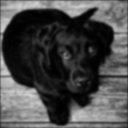
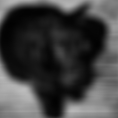
Update arguments and remove unnecessary resources

diff --git a/parallel/src/main.cpp b/parallel/src/main.cpp
@@ -9,11 +9,61 @@
 
 // Got images here: https://fastly.picsum.photos/id/237/128/128.jpg?grayscale&hmac=8Ye1hFnCaU6mahalA5Vz9WKPNGPvYk59irm670tGrzk
 
+void printHelp(const char* programName)
+{
+  std::cout << "Usage: " << programName << " [OPTIONS]\n\n"
+            << "Options:\n"
+            << "  -h, --help                   Show this help message and exit\n"
+            << "  -k, --kernel_size <int>      Set the kernel size (Must be odd!) (default: 3)\n"
+            << "  -s, --sigma <float>          Change the sigma for the Gaussian function (default: 1.0)\n"
+            << "  -i, --image_name <string>    Adjust the image name to run the convolution on a non-default image (default: grayscale_dog_128x128)"
+            << std::endl;
+}
+
 int main(int argc, char* argv[]) {
-  int kernelSize = argc > 1 ? std::stoi(argv[1]) : 5;
-  int sigma = argc > 2 ? std::stof(argv[2]) : 1.0f;
-  const std::string& imageName = argc > 3 ? argv[3] : "grayscale_dog_128x128";
-  const std::string& baseFilePath = argc > 3 ? "../resources/" + imageName + ".jpg" : "../resources/grayscale_dog_128x128.jpg";
+  int kernelSize = 5;
+  float sigma = 1.0f;
+  std::string imageName = "grayscale_dog_128x128";
+
+  for (int i = 1; i < argc; ++i)
+  {
+    std::string arg = argv[i];
+
+    if (arg == "-h" || arg == "--help")
+    {
+      printHelp(argv[0]);
+      return 0;
+    }
+    else if (arg == "-k" || arg == "--kernel_size")
+    {
+      if (i + 1 < argc) {
+        kernelSize = std::stoi(argv[++i]); // Advance i and convert string to int
+      } else {
+          std::cerr << "Error: " << arg << " requires a kernel size.\n";
+          return 1;
+      }
+    }
+    else if (arg == "-s" || arg == "--sigma")
+    {
+      if (i + 1 < argc) {
+        sigma = std::stof(argv[++i]); // Advance i and convert string to float
+      } else {
+          std::cerr << "Error: " << arg << " requires a sigma.\n";
+          return 1;
+      }
+    }
+    else if (arg == "-i" || arg == "--image_name")
+    {
+      if (i + 1 < argc) {
+        imageName = argv[++i]; // Advance i
+      } else {
+          std::cerr << "Error: " << arg << " requires an image name.\n";
+          return 1;
+      }
+    }
+  }
+
+  const std::string& baseFilePath = "./resources/" + imageName + ".jpg";
 
   std::cout << "Using kernel with size: " << kernelSize << " and sigma: " << sigma << std::endl;
 
@@ -30,7 +80,7 @@ int main(int argc, char* argv[]) {
   auto reshaped_image = utilities::reshapeArrayTwoDim(stbi_image, width, height, 1);
 
   Convolution convolution = Convolution(kernelSize);
-  convolution.createVerticalEdgeKernel(kernelSize);
+  convolution.createGaussianKernel(kernelSize, sigma);
 
   int outputWidth = width - kernelSize + 1;
   int outputHeight = height - kernelSize + 1;
@@ -46,7 +96,7 @@ int main(int argc, char* argv[]) {
 
   utilities::flattenArray(output, blurred_image, outputWidth, outputHeight, 1);
 
-  utilities::saveImage("./outputs/" + imageName + "_blurred.jpg", blurred_image, outputWidth, outputHeight, 1);
+  utilities::saveImage("./parallel/outputs/" + imageName + "_blurred.jpg", blurred_image, outputWidth, outputHeight, 1);
 
   // Calculate the duration of the convolution operation
   std::chrono::duration<double, std::milli> duration = end - start;

diff --git a/serial/src/main.cpp b/serial/src/main.cpp
@@ -9,11 +9,61 @@
 
 // Got images here: https://fastly.picsum.photos/id/237/128/128.jpg?grayscale&hmac=8Ye1hFnCaU6mahalA5Vz9WKPNGPvYk59irm670tGrzk
 
+void printHelp(const char* programName)
+{
+  std::cout << "Usage: " << programName << " [OPTIONS]\n\n"
+            << "Options:\n"
+            << "  -h, --help                   Show this help message and exit\n"
+            << "  -k, --kernel_size <int>      Set the kernel size (Must be odd!) (default: 3)\n"
+            << "  -s, --sigma <float>          Change the sigma for the Gaussian function (default: 1.0)\n"
+            << "  -i, --image_name <string>    Adjust the image name to run the convolution on a non-default image (default: grayscale_dog_128x128)"
+            << std::endl;
+}
+
 int main(int argc, char* argv[]) {
-  int kernelSize = argc > 1 ? std::stoi(argv[1]) : 5;
-  int sigma = argc > 2 ? std::stof(argv[2]) : 1.0f;
-  const std::string& imageName = argc > 3 ? argv[3] : "grayscale_dog_128x128";
-  const std::string& baseFilePath = argc > 3 ? "../resources/" + imageName + ".jpg" : "../resources/grayscale_dog_128x128.jpg";
+  int kernelSize = 5;
+  float sigma = 1.0f;
+  std::string imageName = "grayscale_dog_128x128";
+
+  for (int i = 1; i < argc; ++i)
+  {
+    std::string arg = argv[i];
+
+    if (arg == "-h" || arg == "--help")
+    {
+      printHelp(argv[0]);
+      return 0;
+    }
+    else if (arg == "-k" || arg == "--kernel_size")
+    {
+      if (i + 1 < argc) {
+        kernelSize = std::stoi(argv[++i]); // Advance i and convert string to int
+      } else {
+          std::cerr << "Error: " << arg << " requires a kernel size.\n";
+          return 1;
+      }
+    }
+    else if (arg == "-s" || arg == "--sigma")
+    {
+      if (i + 1 < argc) {
+        sigma = std::stof(argv[++i]); // Advance i and convert string to float
+      } else {
+          std::cerr << "Error: " << arg << " requires a sigma.\n";
+          return 1;
+      }
+    }
+    else if (arg == "-i" || arg == "--image_name")
+    {
+      if (i + 1 < argc) {
+        imageName = argv[++i]; // Advance i
+      } else {
+          std::cerr << "Error: " << arg << " requires an image name.\n";
+          return 1;
+      }
+    }
+  }
+
+  const std::string& baseFilePath = "./resources/" + imageName + ".jpg";
 
   std::cout << "Using kernel with size: " << kernelSize << " and sigma: " << sigma << std::endl;
 
@@ -30,7 +80,7 @@ int main(int argc, char* argv[]) {
   auto reshaped_image = utilities::reshapeArrayTwoDim(stbi_image, width, height, 1);
 
   Convolution convolution = Convolution(kernelSize);
-  convolution.createVerticalEdgeKernel(kernelSize);
+  convolution.createGaussianKernel(kernelSize, sigma);
 
   int outputWidth = width - kernelSize + 1;
   int outputHeight = height - kernelSize + 1;
@@ -46,7 +96,7 @@ int main(int argc, char* argv[]) {
 
   utilities::flattenArray(output, blurred_image, outputWidth, outputHeight, 1);
 
-  utilities::saveImage("./outputs/" + imageName + "_blurred.jpg", blurred_image, outputWidth, outputHeight, 1);
+  utilities::saveImage("./serial/outputs/" + imageName + "_blurred.jpg", blurred_image, outputWidth, outputHeight, 1);
 
   // Calculate the duration of the convolution operation
   std::chrono::duration<double, std::milli> duration = end - start;
